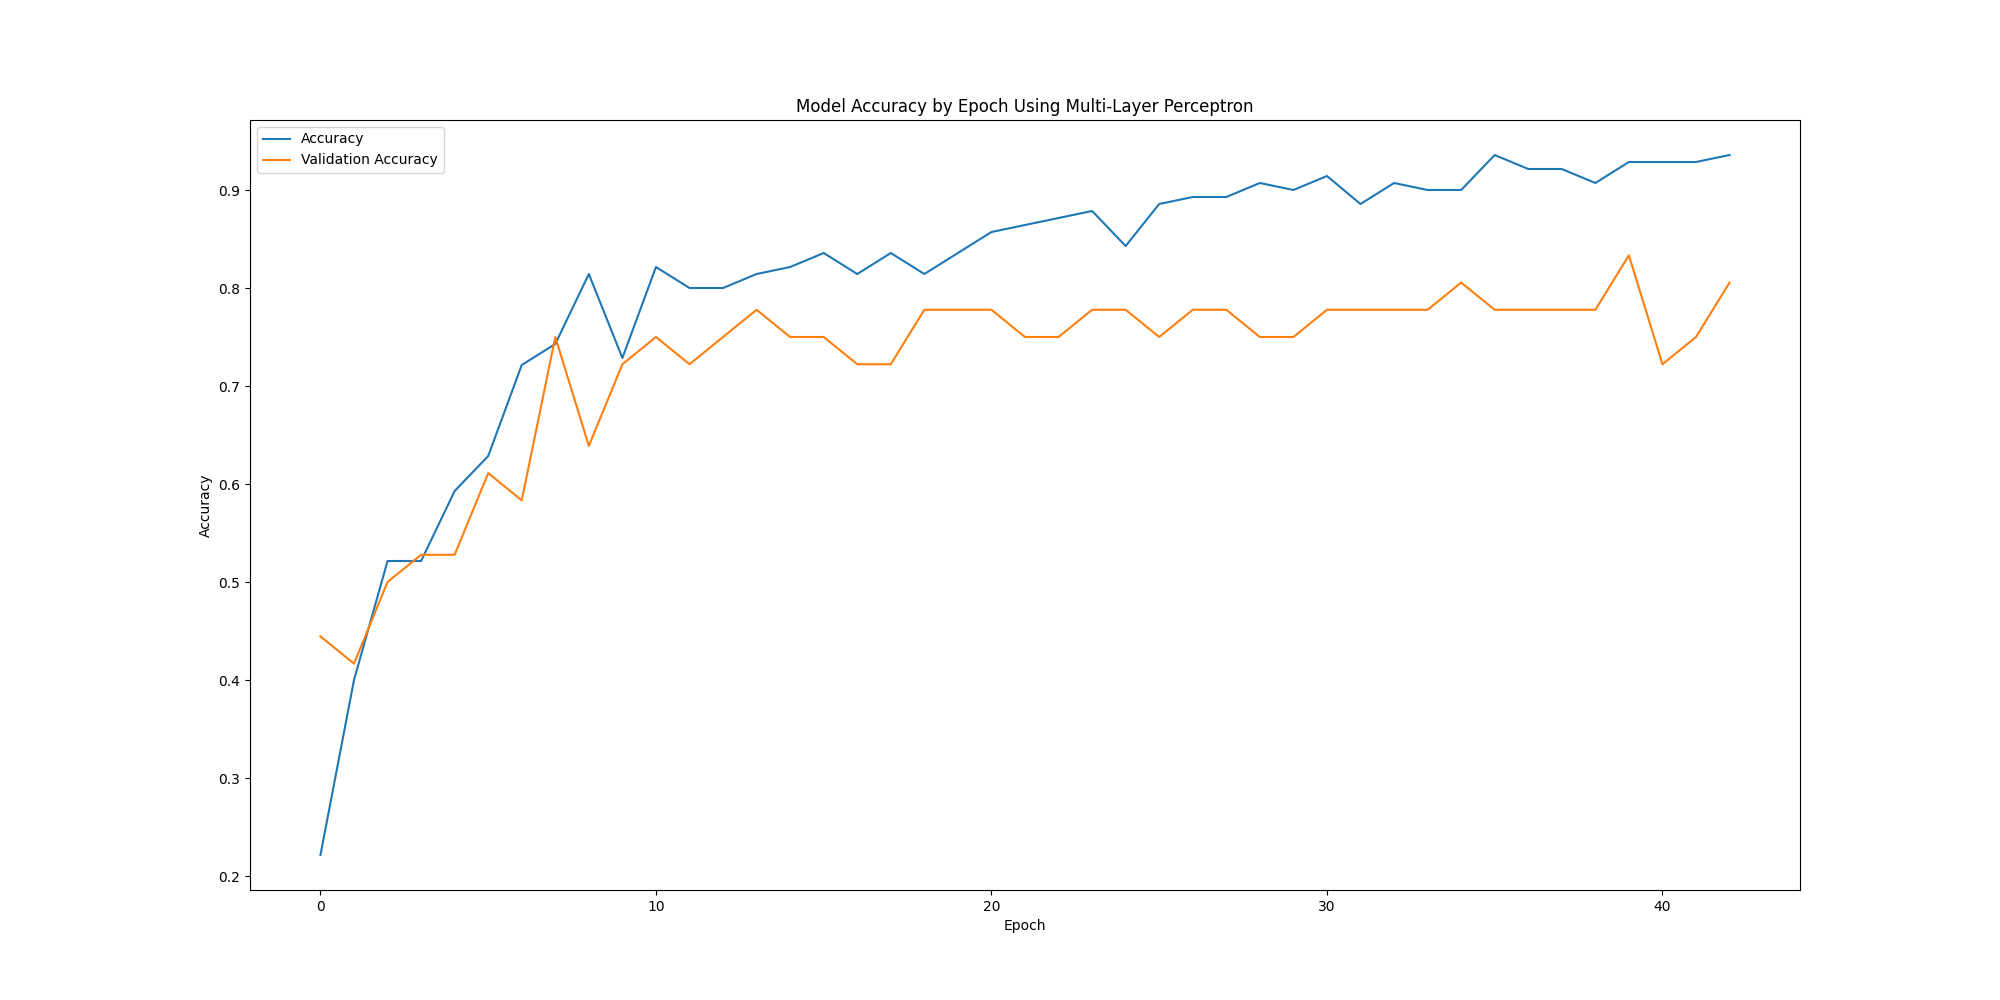
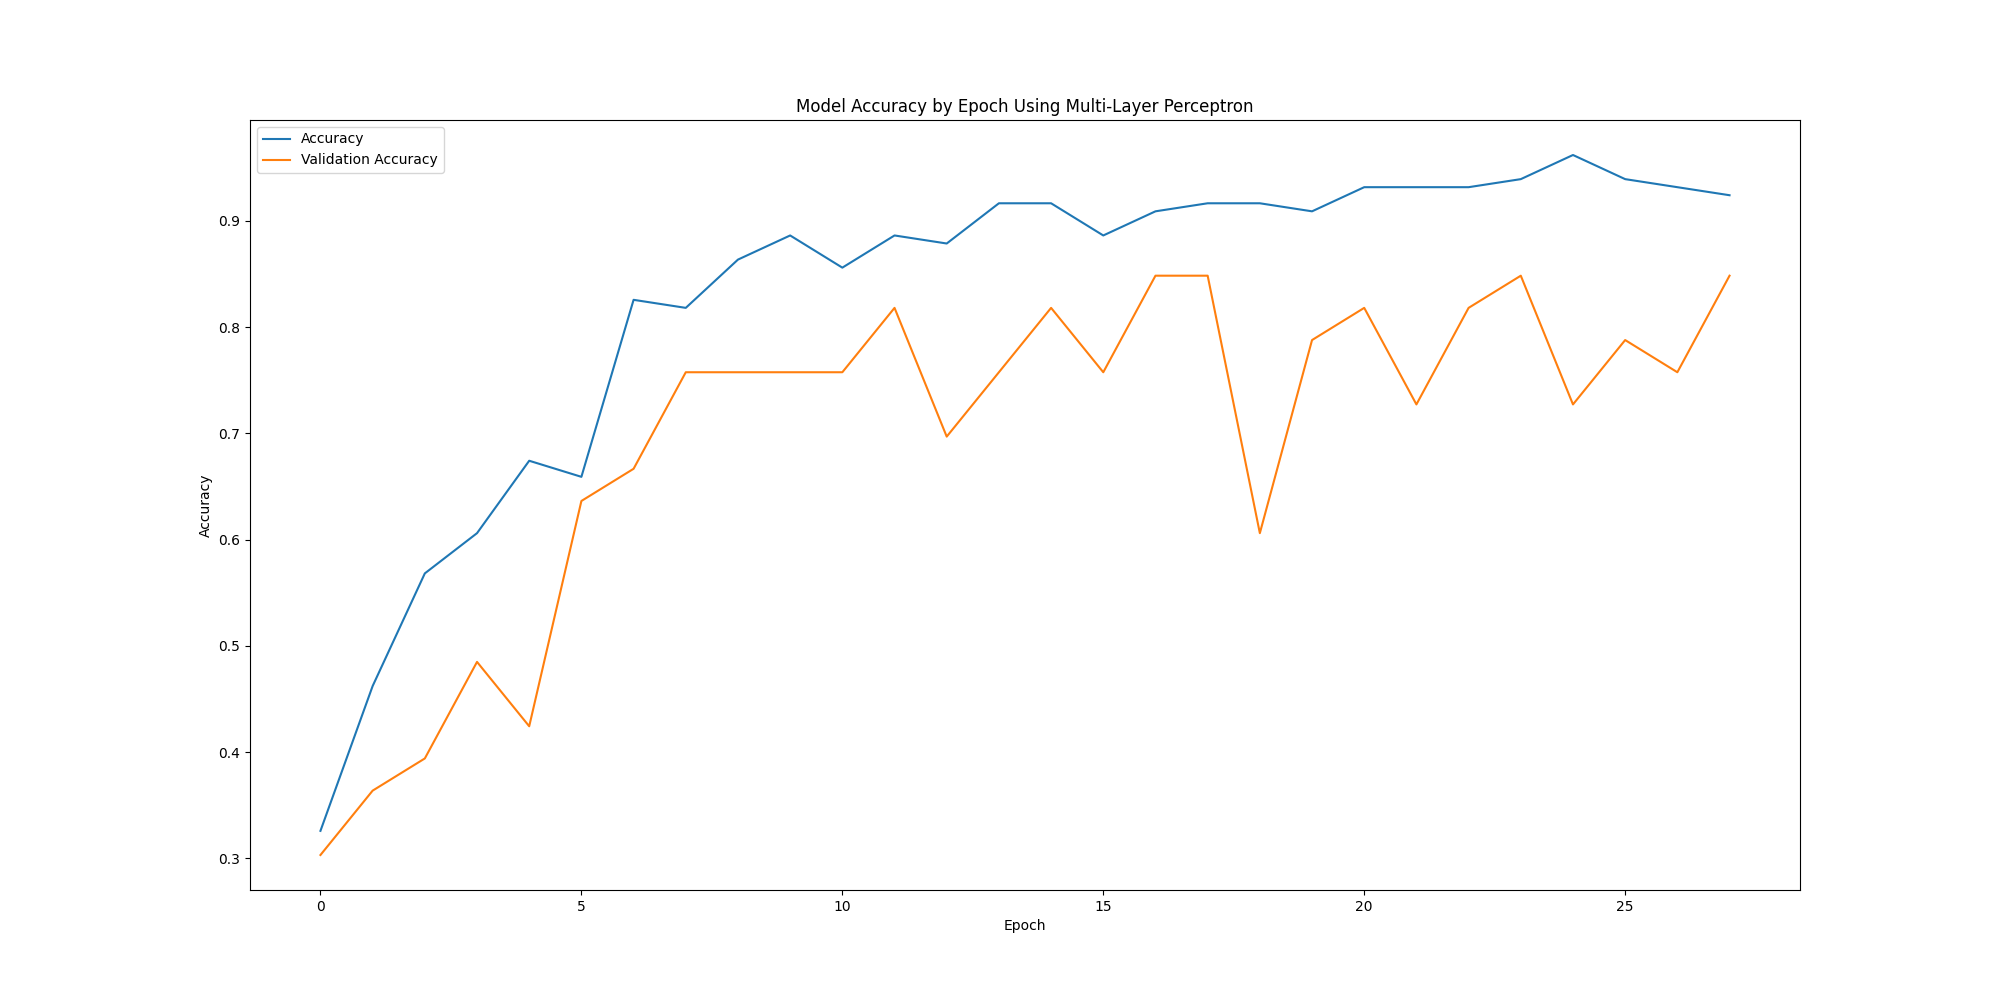
New changes

diff --git a/All_Features_All_Models.PY b/All_Features_All_Models.PY
@@ -18,6 +18,7 @@ import os
 import pandas as pd
 from sklearn.ensemble import RandomForestClassifier
 from sklearn.metrics import accuracy_score
+from sklearn import metrics
 from sklearn.model_selection import LeaveOneOut, train_test_split, KFold
 from sklearn.svm import SVC
 from sklearn.linear_model import LogisticRegression
@@ -37,7 +38,7 @@ def main():
     light_couscous_features = wav_to_audio_features("microphone-sampling/TestingSamples/lightCouscousHail/")
     mason_rain_features = wav_to_audio_features("microphone-sampling/TestingSamples/MasonJarRain/")
     nothing_features = wav_to_audio_features("microphone-sampling/TestingSamples/Nothing/")
-    watering_can_features = wav_to_audio_features("microphone-sampling/TestingSamples/WateringCan/")
+    #watering_can_features = wav_to_audio_features("microphone-sampling/TestingSamples/WateringCan/")
     real_snow_features = wav_to_audio_features("microphone-sampling/TestingSamples/RealSnow/")
 
     #--------------------Create Labels for Light, Medium, Heavy, etc.-------------------------------------
@@ -47,17 +48,17 @@ def main():
     light_couscous_labels = np.full(len(light_couscous_features), "light couscous hail")
     mason_rain_labels = np.full(len(mason_rain_features), "mason jar rain")
     nothing_labels = np.full(len(nothing_features), "nothing")
-    watering_can_labels = np.full(len(watering_can_features), "watering can")
+    #watering_can_labels = np.full(len(watering_can_features), "watering can")
     real_snow_labels = np.full(len(real_snow_features), "real snow")
 
     #----------------------Concatenating the features and labels into X (features) and Y (labels)----------------
     # Concatenate together the 8 NumPy arrays into one array, which will be the features array
     X = np.concatenate([light_rain_features, medium_rain_features, heavy_couscous_features,
-                        light_couscous_features, mason_rain_features, nothing_features, watering_can_features, real_snow_features], axis=0)
+                        light_couscous_features, mason_rain_features, nothing_features, real_snow_features], axis=0)
     # Concatenate together the 8 NumPy LABEL arrays into one array, which will be the target array
     Y = np.concatenate(
         [light_rain_labels, med_rain_labels, heavy_couscous_labels, light_couscous_labels,
-         mason_rain_labels, nothing_labels, watering_can_labels, real_snow_labels], axis=0)
+         mason_rain_labels, nothing_labels, real_snow_labels], axis=0)
     df = pd.DataFrame(X)
     df['target'] = Y
 
@@ -158,6 +159,7 @@ def run_models(X, Y):
     # Performing SVM, RF, and XGBoost algorithms with and without leave one out cross validation
     # and recording the accuracies
     all_accuracies = []
+    all_roc = []
 
     #feature_names = ["ACC", "ZCR", "Ht", "Hf", "ACI", "SC"]
     feature_names = [f"feature{i}" for i in range(X.shape[1])]
@@ -168,6 +170,7 @@ def run_models(X, Y):
 
     loo = LeaveOneOut()
     accuracies = []
+
     for train_index, test_index in loo.split(X):
         X_train, X_test = X[train_index], X[test_index]
         Y_train, Y_test = Y[train_index], Y[test_index]

diff --git a/ANN.py b/ANN.py
@@ -35,7 +35,7 @@ def main():
     medium_rain_features = wav_to_audio_features("microphone-sampling/TestingSamples/mediumShower/")
     heavy_couscous_features = wav_to_audio_features("microphone-sampling/TestingSamples/heavyCouscousHail/")
     light_couscous_features = wav_to_audio_features("microphone-sampling/TestingSamples/lightCouscousHail/")
-    mason_rain_features = wav_to_audio_features("microphone-sampling/TestingSamples/MasonJarRain/")
+    #mason_rain_features = wav_to_audio_features("microphone-sampling/TestingSamples/MasonJarRain/")
     nothing_features = wav_to_audio_features("microphone-sampling/TestingSamples/Nothing/")
     watering_can_features = wav_to_audio_features("microphone-sampling/TestingSamples/WateringCan/")
     real_snow_features = wav_to_audio_features("microphone-sampling/TestingSamples/RealSnow/")
@@ -45,7 +45,7 @@ def main():
     med_rain_labels = np.full(len(medium_rain_features), 1)
     heavy_couscous_labels = np.full(len(heavy_couscous_features), 2)
     light_couscous_labels = np.full(len(light_couscous_features), 3)
-    mason_rain_labels = np.full(len(mason_rain_features), 4)
+    #mason_rain_labels = np.full(len(mason_rain_features), 4)
     nothing_labels = np.full(len(nothing_features), 5)
     watering_can_labels = np.full(len(watering_can_features), 6)
     real_snow_labels = np.full(len(real_snow_features), 7)
@@ -53,12 +53,12 @@ def main():
     # ----------------------Concatenating the features and labels into X (features) and Y (labels)----------------
     # Concatenate together the 8 NumPy arrays into one array, which will be the features array
     X = np.concatenate([light_rain_features, medium_rain_features, heavy_couscous_features,
-                        light_couscous_features, mason_rain_features, nothing_features, watering_can_features,
+                        light_couscous_features, nothing_features, watering_can_features,
                         real_snow_features], axis=0)
     # Concatenate together the 8 NumPy LABEL arrays into one array, which will be the target array
     Y = np.concatenate(
         [light_rain_labels, med_rain_labels, heavy_couscous_labels, light_couscous_labels,
-         mason_rain_labels, nothing_labels, watering_can_labels, real_snow_labels], axis=0)
+         nothing_labels, watering_can_labels, real_snow_labels], axis=0)
     df = pd.DataFrame(X)
     df['target'] = Y
 
@@ -182,8 +182,6 @@ def run_models(X, Y):
 
     layers = [
         Flatten(),
-        # Hidden layer with 100 neurons and relu activation
-        Dense(100, activation="relu"),
         # Hidden layer with 100 neurons and relu activation
         Dense(100, activation="relu"),
         # Hidden layer with 100 neurons and relu activation
